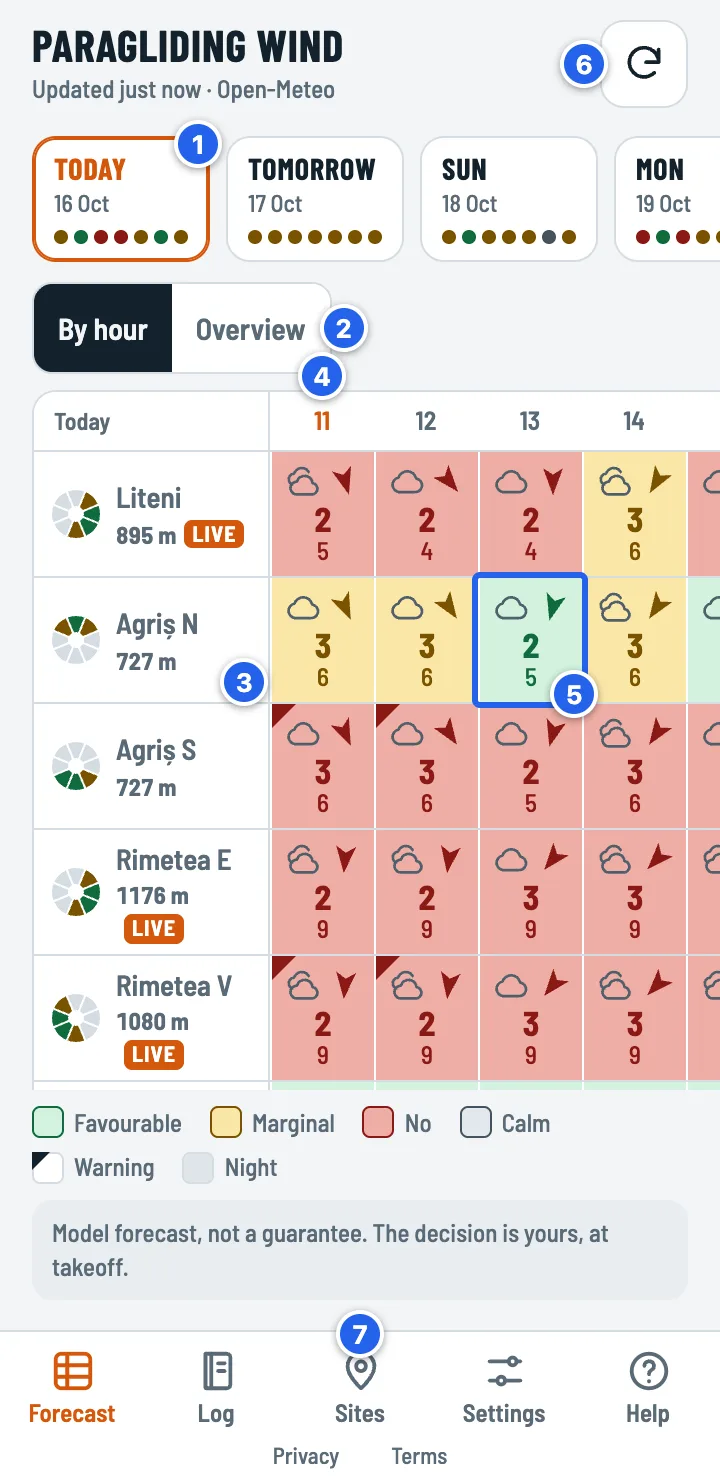
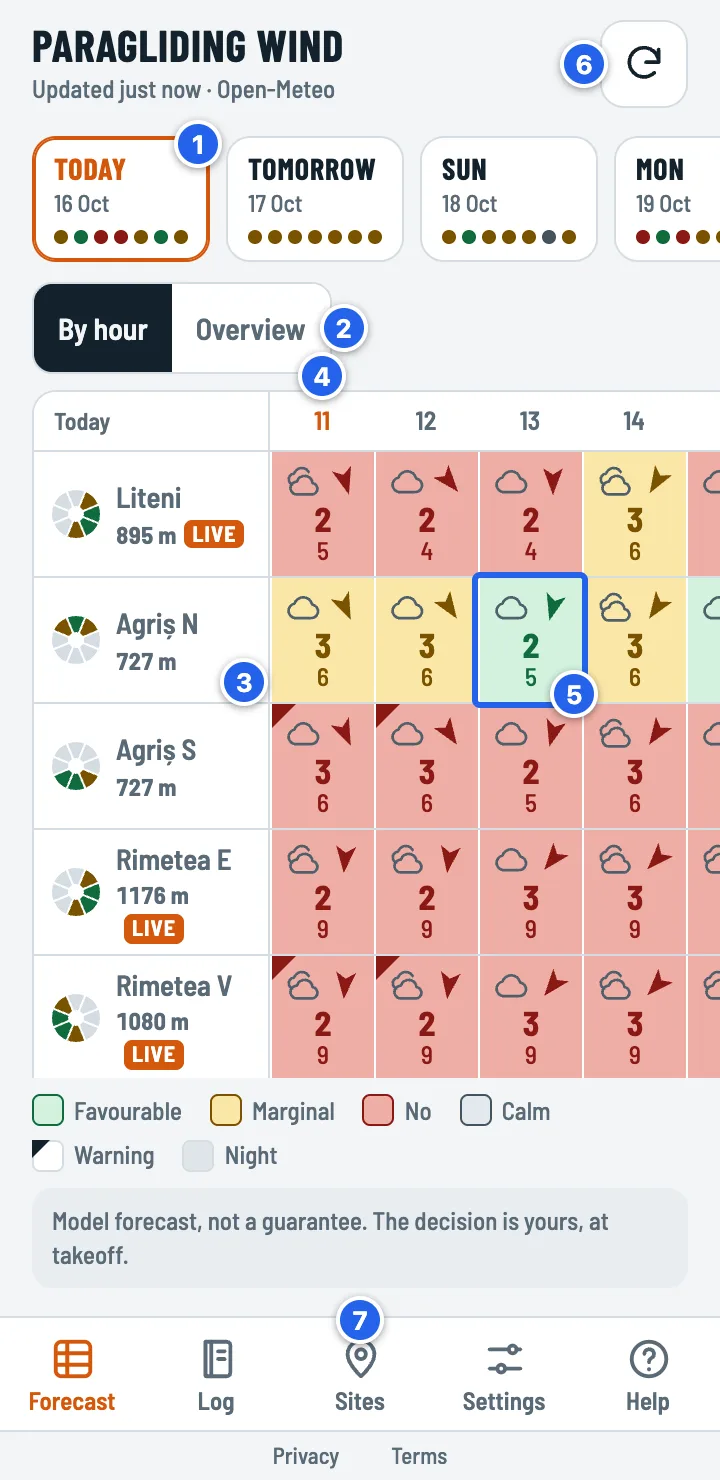
Confidențialitate și Termeni sub bara de butoane, nu în ea
Bara e o cutie separată; sub ea, pe fundalul paginii, linkurile mici (pe laptop, sub bara plutitoare).

Claude-Session: https://claude.ai/code/session_01AHnFa6r7pKe7n6SbnXpaSQ

diff --git a/docs/index.html b/docs/index.html
@@ -48,7 +48,7 @@ button,input,textarea{font:inherit;color:inherit}
 button{cursor:pointer}
 :focus-visible{outline:2px solid var(--accent);outline-offset:2px}
 [hidden]{display:none!important}
-.app{display:flex;flex-direction:column;height:100%;max-width:1100px;margin:0 auto;padding-bottom:calc(80px + env(safe-area-inset-bottom,0px))}
+.app{display:flex;flex-direction:column;height:100%;max-width:1100px;margin:0 auto;padding-bottom:calc(86px + env(safe-area-inset-bottom,0px))}
 
 /* Bara de sus */
 .top{display:flex;align-items:center;gap:10px;padding:10px 16px 6px}
@@ -278,14 +278,16 @@ details.custom summary{min-height:44px;display:flex;align-items:center;font-weig
 .linkbtn{border:0;background:none;padding:0;color:var(--accent);font-weight:700;text-decoration:underline;min-height:44px}
 .site .nodir{display:inline-block}
 /* UI-05: navigarea de jos, cu etichete. Pe ecrane late devine o bară plutitoare, centrată. */
-.tabbar{position:fixed;left:0;right:0;bottom:0;z-index:5;display:grid;grid-template-columns:repeat(5,1fr);background:var(--surface);border-top:1px solid var(--line);padding-bottom:env(safe-area-inset-bottom,0px)}
-.tabbar button{display:flex;flex-direction:column;align-items:center;justify-content:center;gap:3px;min-height:54px;border:0;background:none;color:var(--muted);font:600 12.5px/1 var(--f-ui)}
-/* Confidențialitate și Termeni: text mic sub butoane, mereu la vedere. */
-.tabbar .legal{grid-column:1/-1;display:flex;justify-content:center;gap:14px;margin-top:-4px}
-.tabbar .legal a{display:inline-flex;align-items:center;min-height:24px;padding:0 6px;font-size:11.5px;color:var(--muted);text-decoration:none}
+/* Jos: bara cu butoane, iar sub ea, în afara ei, Confidențialitate și Termeni cu litere mici. */
+.bottom{position:fixed;left:0;right:0;bottom:0;z-index:5;background:var(--bg);padding-bottom:env(safe-area-inset-bottom,0px)}
+.tabbar{display:grid;grid-template-columns:repeat(5,1fr);background:var(--surface);border-top:1px solid var(--line);border-bottom:1px solid var(--line)}
+.tabbar button{display:flex;flex-direction:column;align-items:center;justify-content:center;gap:3px;min-height:56px;border:0;background:none;color:var(--muted);font:600 12.5px/1 var(--f-ui)}
 .tabbar svg{width:23px;height:23px;fill:none;stroke:currentColor;stroke-width:2;stroke-linecap:round;stroke-linejoin:round}
 .tabbar button[aria-current="page"]{color:var(--accent)}
-@media (min-width: 900px){ .tabbar{left:50%;right:auto;transform:translateX(-50%);width:520px;bottom:12px;border:1px solid var(--line);border-radius:16px;box-shadow:0 6px 24px rgb(0 0 0 / .12)} }
+.legal{display:flex;justify-content:center;gap:14px}
+.legal a{display:inline-flex;align-items:center;min-height:24px;padding:0 6px;font-size:11.5px;color:var(--muted);text-decoration:none}
+@media (min-width: 900px){ .bottom{left:50%;right:auto;transform:translateX(-50%);width:520px;bottom:6px;background:none}
+  .tabbar{border:1px solid var(--line);border-radius:16px;box-shadow:0 6px 24px rgb(0 0 0 / .12)} }
 /* UI-03: comutatorul Pe ore / Pe scurt și vederea pe scurt */
 .viewbar{display:flex;gap:8px;align-items:center;flex-wrap:wrap;padding:0 16px 8px}
 /* Doar tabla se micșorează când ecranul e scund; restul își păstrează înălțimea (altfel banda de zile se taie). */
@@ -311,7 +313,7 @@ details.hfbox summary{min-height:48px;display:flex;align-items:center;gap:8px;pa
 details.hfbox .hf-in{padding:0 12px 12px}
 .toast{display:flex;align-items:center;width:max-content;max-width:calc(100vw - 32px)}
 .toast button{margin-left:12px;border:0;background:none;color:var(--accent);font-weight:700;min-height:36px;padding:0 4px}
-.toast{position:fixed;left:50%;bottom:calc(92px + env(safe-area-inset-bottom,0px));transform:translateX(-50%);background:var(--ink);color:var(--bg);padding:10px 16px;border-radius:12px;font-weight:600;z-index:10}
+.toast{position:fixed;left:50%;bottom:calc(96px + env(safe-area-inset-bottom,0px));transform:translateX(-50%);background:var(--ink);color:var(--bg);padding:10px 16px;border-radius:12px;font-weight:600;z-index:10}
 </style>
 </head>
 <body>
@@ -341,14 +343,16 @@ details.hfbox .hf-in{padding:0 12px 12px}
   </div>
 </div>
 
+<div class="bottom">
 <nav class="tabbar" aria-label="Navigare">
   <button type="button" id="navBoard" aria-current="page"><svg viewBox="0 0 24 24"><path d="M3 9h18M3 15h18M9 3v18"/><rect x="3" y="3" width="18" height="18" rx="3"/></svg><span>Prognoză</span></button>
   <button type="button" id="log"><svg viewBox="0 0 24 24"><path d="M6 3h11a2 2 0 0 1 2 2v14a2 2 0 0 1-2 2H6z"/><path d="M9 3v18"/><path d="M12.5 8h3.5M12.5 12h3.5"/></svg><span>Jurnal</span></button>
   <button type="button" id="edit"><svg viewBox="0 0 24 24"><path d="M12 21s-7-6.2-7-11.5a7 7 0 0 1 14 0C19 14.8 12 21 12 21z"/><circle cx="12" cy="9.5" r="2.5"/></svg><span>Situri</span></button>
   <button type="button" id="settingsOpen"><svg viewBox="0 0 24 24"><path d="M4 7h10M18 7h2M4 17h4M12 17h8"/><circle cx="16" cy="7" r="2"/><circle cx="10" cy="17" r="2"/></svg><span>Setări</span></button>
   <button type="button" id="helpTab"><svg viewBox="0 0 24 24"><circle cx="12" cy="12" r="9"/><path d="M9.6 9.3a2.5 2.5 0 1 1 3.4 2.4c-.6.3-1 .8-1 1.5v.5"/><path d="M12 17.3v.1"/></svg><span>Ajutor</span></button>
-  <div class="legal"><a href="confidentialitate.html">Confidențialitate</a><a href="termeni.html">Termeni</a></div>
 </nav>
+<div class="legal"><a href="confidentialitate.html">Confidențialitate</a><a href="termeni.html">Termeni</a></div>
+</div>
 
 <dialog id="dlgCell"><div class="sheet">
   <header><h2 id="cellTitle"></h2><button class="iconbtn" data-close aria-label="Închide"><svg viewBox="0 0 24 24"><path d="M6 6l12 12M18 6L6 18"/></svg></button></header>
@@ -525,7 +529,7 @@ function translateStatic(){
   $('#ver').textContent = t('Versiunea {v}', {v: VERSION});
   for (const a of document.querySelectorAll('#langSeg a')) a.setAttribute('aria-current', String(a.dataset.lang === LANG));
 }
-const VERSION = '92b3e7f';
+const VERSION = '63ddbeb';
 const SKY_ICONS = {"sun":[{"d":"M12 7.5 A4.5 4.5 0 1 0 12 16.5 A4.5 4.5 0 1 0 12 7.5 Z","r":"sun","f":1},{"d":"M12 2 V4.2 M12 19.8 V22 M2 12 H4.2 M19.8 12 H22 M4.9 4.9 L6.5 6.5 M17.5 17.5 L19.1 19.1 M4.9 19.1 L6.5 17.5 M17.5 6.5 L19.1 4.9","r":"sun"}],"moon":[{"d":"M19.5 14.6 A7.8 7.8 0 1 1 9.4 4.5 A6.2 6.2 0 0 0 19.5 14.6 Z","r":"ink"}],"partly":[{"d":"M6.03 10.77 A3.5 3.5 0 1 1 12 8.3","r":"sun"},{"d":"M8.5 2.6 V3.9 M2.6 8.3 H3.9 M4.3 4.1 L5.2 5 M12.7 4.1 L11.8 5","r":"sun"},{"d":"M9.5 20 H17.7 A3.4 3.4 0 0 0 18.2 13.23 A4.6 4.6 0 0 0 9.3 12.3 A3.85 3.85 0 0 0 9.5 20 Z","r":"ink"}],"cloud":[{"d":"M7 19 H17.2 A4.3 4.3 0 0 0 17.8 10.44 A5.8 5.8 0 0 0 6.6 9.9 A4.6 4.6 0 0 0 7 19 Z","r":"ink"}],"overcast":[{"d":"M5.2 14.2 A3.6 3.6 0 0 1 6.4 7.3 A5 5 0 0 1 15.6 6.4","r":"ink"},{"d":"M8 20.5 H17.5 A3.6 3.6 0 0 0 18 13.33 A5 5 0 0 0 8.2 12.4 A4.05 4.05 0 0 0 8 20.5 Z","r":"ink"}],"cumulus":[{"d":"M3.5 19 H20.5","r":"ink"},{"d":"M5.5 19 A3 3 0 0 1 6.5 13.2 A3.6 3.6 0 0 1 11.5 8.5 A4 4 0 0 1 18 12 A3.6 3.6 0 0 1 18.5 19","r":"ink"},{"d":"M20 3.6 A1.9 1.9 0 1 0 20 7.4 A1.9 1.9 0 1 0 20 3.6 Z","r":"sun","f":1}],"cirrus":[{"d":"M2.5 11 C6.5 8 10 13 15 10 M4.5 15.5 C8.5 13 12.5 17.5 20.5 14 M2.5 20 C5.5 18.5 8.5 21 12.5 19.5","r":"ink"},{"d":"M18 3.6 A2.3 2.3 0 1 0 18 8.2 A2.3 2.3 0 1 0 18 3.6 Z","r":"sun","f":1}],"fog":[{"d":"M4 7 H20 M6 11 H18 M4 15 H20 M7 19 H17","r":"ink"}],"rain":[{"d":"M7 15 H17.2 A4.3 4.3 0 0 0 17.8 6.44 A5.8 5.8 0 0 0 6.6 5.9 A4.6 4.6 0 0 0 7 15 Z","r":"ink"},{"d":"M8.5 18 L7.5 21 M12.5 18 L11.5 21 M16.5 18 L15.5 21","r":"water"}],"thunder":[{"d":"M7 15 H17.2 A4.3 4.3 0 0 0 17.8 6.44 A5.8 5.8 0 0 0 6.6 5.9 A4.6 4.6 0 0 0 7 15 Z","r":"ink"},{"d":"M13 14.5 L10.5 18.5 H13.5 L11.5 22.5","r":"sun"}],"snow":[{"d":"M7 15 H17.2 A4.3 4.3 0 0 0 17.8 6.44 A5.8 5.8 0 0 0 6.6 5.9 A4.6 4.6 0 0 0 7 15 Z","r":"ink"},{"d":"M8 18.5 V18.6 M12 19.5 V19.6 M16 18.5 V18.6 M10 22 V22.1 M14 22 V22.1","r":"water"}]};
 let HOLFUY = [];   // stațiile Holfuy din toată lumea, din holfuy.json (încărcat la pornire)
 const GOOGLE_CLIENT_ID = "649701687476-dkeevrquqrkupso4aeupqbou5lrfkrkl.apps.googleusercontent.com";

diff --git a/src/index.html b/src/index.html
@@ -48,7 +48,7 @@ button,input,textarea{font:inherit;color:inherit}
 button{cursor:pointer}
 :focus-visible{outline:2px solid var(--accent);outline-offset:2px}
 [hidden]{display:none!important}
-.app{display:flex;flex-direction:column;height:100%;max-width:1100px;margin:0 auto;padding-bottom:calc(80px + env(safe-area-inset-bottom,0px))}
+.app{display:flex;flex-direction:column;height:100%;max-width:1100px;margin:0 auto;padding-bottom:calc(86px + env(safe-area-inset-bottom,0px))}
 
 /* Bara de sus */
 .top{display:flex;align-items:center;gap:10px;padding:10px 16px 6px}
@@ -278,14 +278,16 @@ details.custom summary{min-height:44px;display:flex;align-items:center;font-weig
 .linkbtn{border:0;background:none;padding:0;color:var(--accent);font-weight:700;text-decoration:underline;min-height:44px}
 .site .nodir{display:inline-block}
 /* UI-05: navigarea de jos, cu etichete. Pe ecrane late devine o bară plutitoare, centrată. */
-.tabbar{position:fixed;left:0;right:0;bottom:0;z-index:5;display:grid;grid-template-columns:repeat(5,1fr);background:var(--surface);border-top:1px solid var(--line);padding-bottom:env(safe-area-inset-bottom,0px)}
-.tabbar button{display:flex;flex-direction:column;align-items:center;justify-content:center;gap:3px;min-height:54px;border:0;background:none;color:var(--muted);font:600 12.5px/1 var(--f-ui)}
-/* Confidențialitate și Termeni: text mic sub butoane, mereu la vedere. */
-.tabbar .legal{grid-column:1/-1;display:flex;justify-content:center;gap:14px;margin-top:-4px}
-.tabbar .legal a{display:inline-flex;align-items:center;min-height:24px;padding:0 6px;font-size:11.5px;color:var(--muted);text-decoration:none}
+/* Jos: bara cu butoane, iar sub ea, în afara ei, Confidențialitate și Termeni cu litere mici. */
+.bottom{position:fixed;left:0;right:0;bottom:0;z-index:5;background:var(--bg);padding-bottom:env(safe-area-inset-bottom,0px)}
+.tabbar{display:grid;grid-template-columns:repeat(5,1fr);background:var(--surface);border-top:1px solid var(--line);border-bottom:1px solid var(--line)}
+.tabbar button{display:flex;flex-direction:column;align-items:center;justify-content:center;gap:3px;min-height:56px;border:0;background:none;color:var(--muted);font:600 12.5px/1 var(--f-ui)}
 .tabbar svg{width:23px;height:23px;fill:none;stroke:currentColor;stroke-width:2;stroke-linecap:round;stroke-linejoin:round}
 .tabbar button[aria-current="page"]{color:var(--accent)}
-@media (min-width: 900px){ .tabbar{left:50%;right:auto;transform:translateX(-50%);width:520px;bottom:12px;border:1px solid var(--line);border-radius:16px;box-shadow:0 6px 24px rgb(0 0 0 / .12)} }
+.legal{display:flex;justify-content:center;gap:14px}
+.legal a{display:inline-flex;align-items:center;min-height:24px;padding:0 6px;font-size:11.5px;color:var(--muted);text-decoration:none}
+@media (min-width: 900px){ .bottom{left:50%;right:auto;transform:translateX(-50%);width:520px;bottom:6px;background:none}
+  .tabbar{border:1px solid var(--line);border-radius:16px;box-shadow:0 6px 24px rgb(0 0 0 / .12)} }
 /* UI-03: comutatorul Pe ore / Pe scurt și vederea pe scurt */
 .viewbar{display:flex;gap:8px;align-items:center;flex-wrap:wrap;padding:0 16px 8px}
 /* Doar tabla se micșorează când ecranul e scund; restul își păstrează înălțimea (altfel banda de zile se taie). */
@@ -311,7 +313,7 @@ details.hfbox summary{min-height:48px;display:flex;align-items:center;gap:8px;pa
 details.hfbox .hf-in{padding:0 12px 12px}
 .toast{display:flex;align-items:center;width:max-content;max-width:calc(100vw - 32px)}
 .toast button{margin-left:12px;border:0;background:none;color:var(--accent);font-weight:700;min-height:36px;padding:0 4px}
-.toast{position:fixed;left:50%;bottom:calc(92px + env(safe-area-inset-bottom,0px));transform:translateX(-50%);background:var(--ink);color:var(--bg);padding:10px 16px;border-radius:12px;font-weight:600;z-index:10}
+.toast{position:fixed;left:50%;bottom:calc(96px + env(safe-area-inset-bottom,0px));transform:translateX(-50%);background:var(--ink);color:var(--bg);padding:10px 16px;border-radius:12px;font-weight:600;z-index:10}
 </style>
 </head>
 <body>
@@ -341,14 +343,16 @@ details.hfbox .hf-in{padding:0 12px 12px}
   </div>
 </div>
 
+<div class="bottom">
 <nav class="tabbar" aria-label="Navigare">
   <button type="button" id="navBoard" aria-current="page"><svg viewBox="0 0 24 24"><path d="M3 9h18M3 15h18M9 3v18"/><rect x="3" y="3" width="18" height="18" rx="3"/></svg><span>Prognoză</span></button>
   <button type="button" id="log"><svg viewBox="0 0 24 24"><path d="M6 3h11a2 2 0 0 1 2 2v14a2 2 0 0 1-2 2H6z"/><path d="M9 3v18"/><path d="M12.5 8h3.5M12.5 12h3.5"/></svg><span>Jurnal</span></button>
   <button type="button" id="edit"><svg viewBox="0 0 24 24"><path d="M12 21s-7-6.2-7-11.5a7 7 0 0 1 14 0C19 14.8 12 21 12 21z"/><circle cx="12" cy="9.5" r="2.5"/></svg><span>Situri</span></button>
   <button type="button" id="settingsOpen"><svg viewBox="0 0 24 24"><path d="M4 7h10M18 7h2M4 17h4M12 17h8"/><circle cx="16" cy="7" r="2"/><circle cx="10" cy="17" r="2"/></svg><span>Setări</span></button>
   <button type="button" id="helpTab"><svg viewBox="0 0 24 24"><circle cx="12" cy="12" r="9"/><path d="M9.6 9.3a2.5 2.5 0 1 1 3.4 2.4c-.6.3-1 .8-1 1.5v.5"/><path d="M12 17.3v.1"/></svg><span>Ajutor</span></button>
-  <div class="legal"><a href="confidentialitate.html">Confidențialitate</a><a href="termeni.html">Termeni</a></div>
 </nav>
+<div class="legal"><a href="confidentialitate.html">Confidențialitate</a><a href="termeni.html">Termeni</a></div>
+</div>
 
 <dialog id="dlgCell"><div class="sheet">
   <header><h2 id="cellTitle"></h2><button class="iconbtn" data-close aria-label="Închide"><svg viewBox="0 0 24 24"><path d="M6 6l12 12M18 6L6 18"/></svg></button></header>
